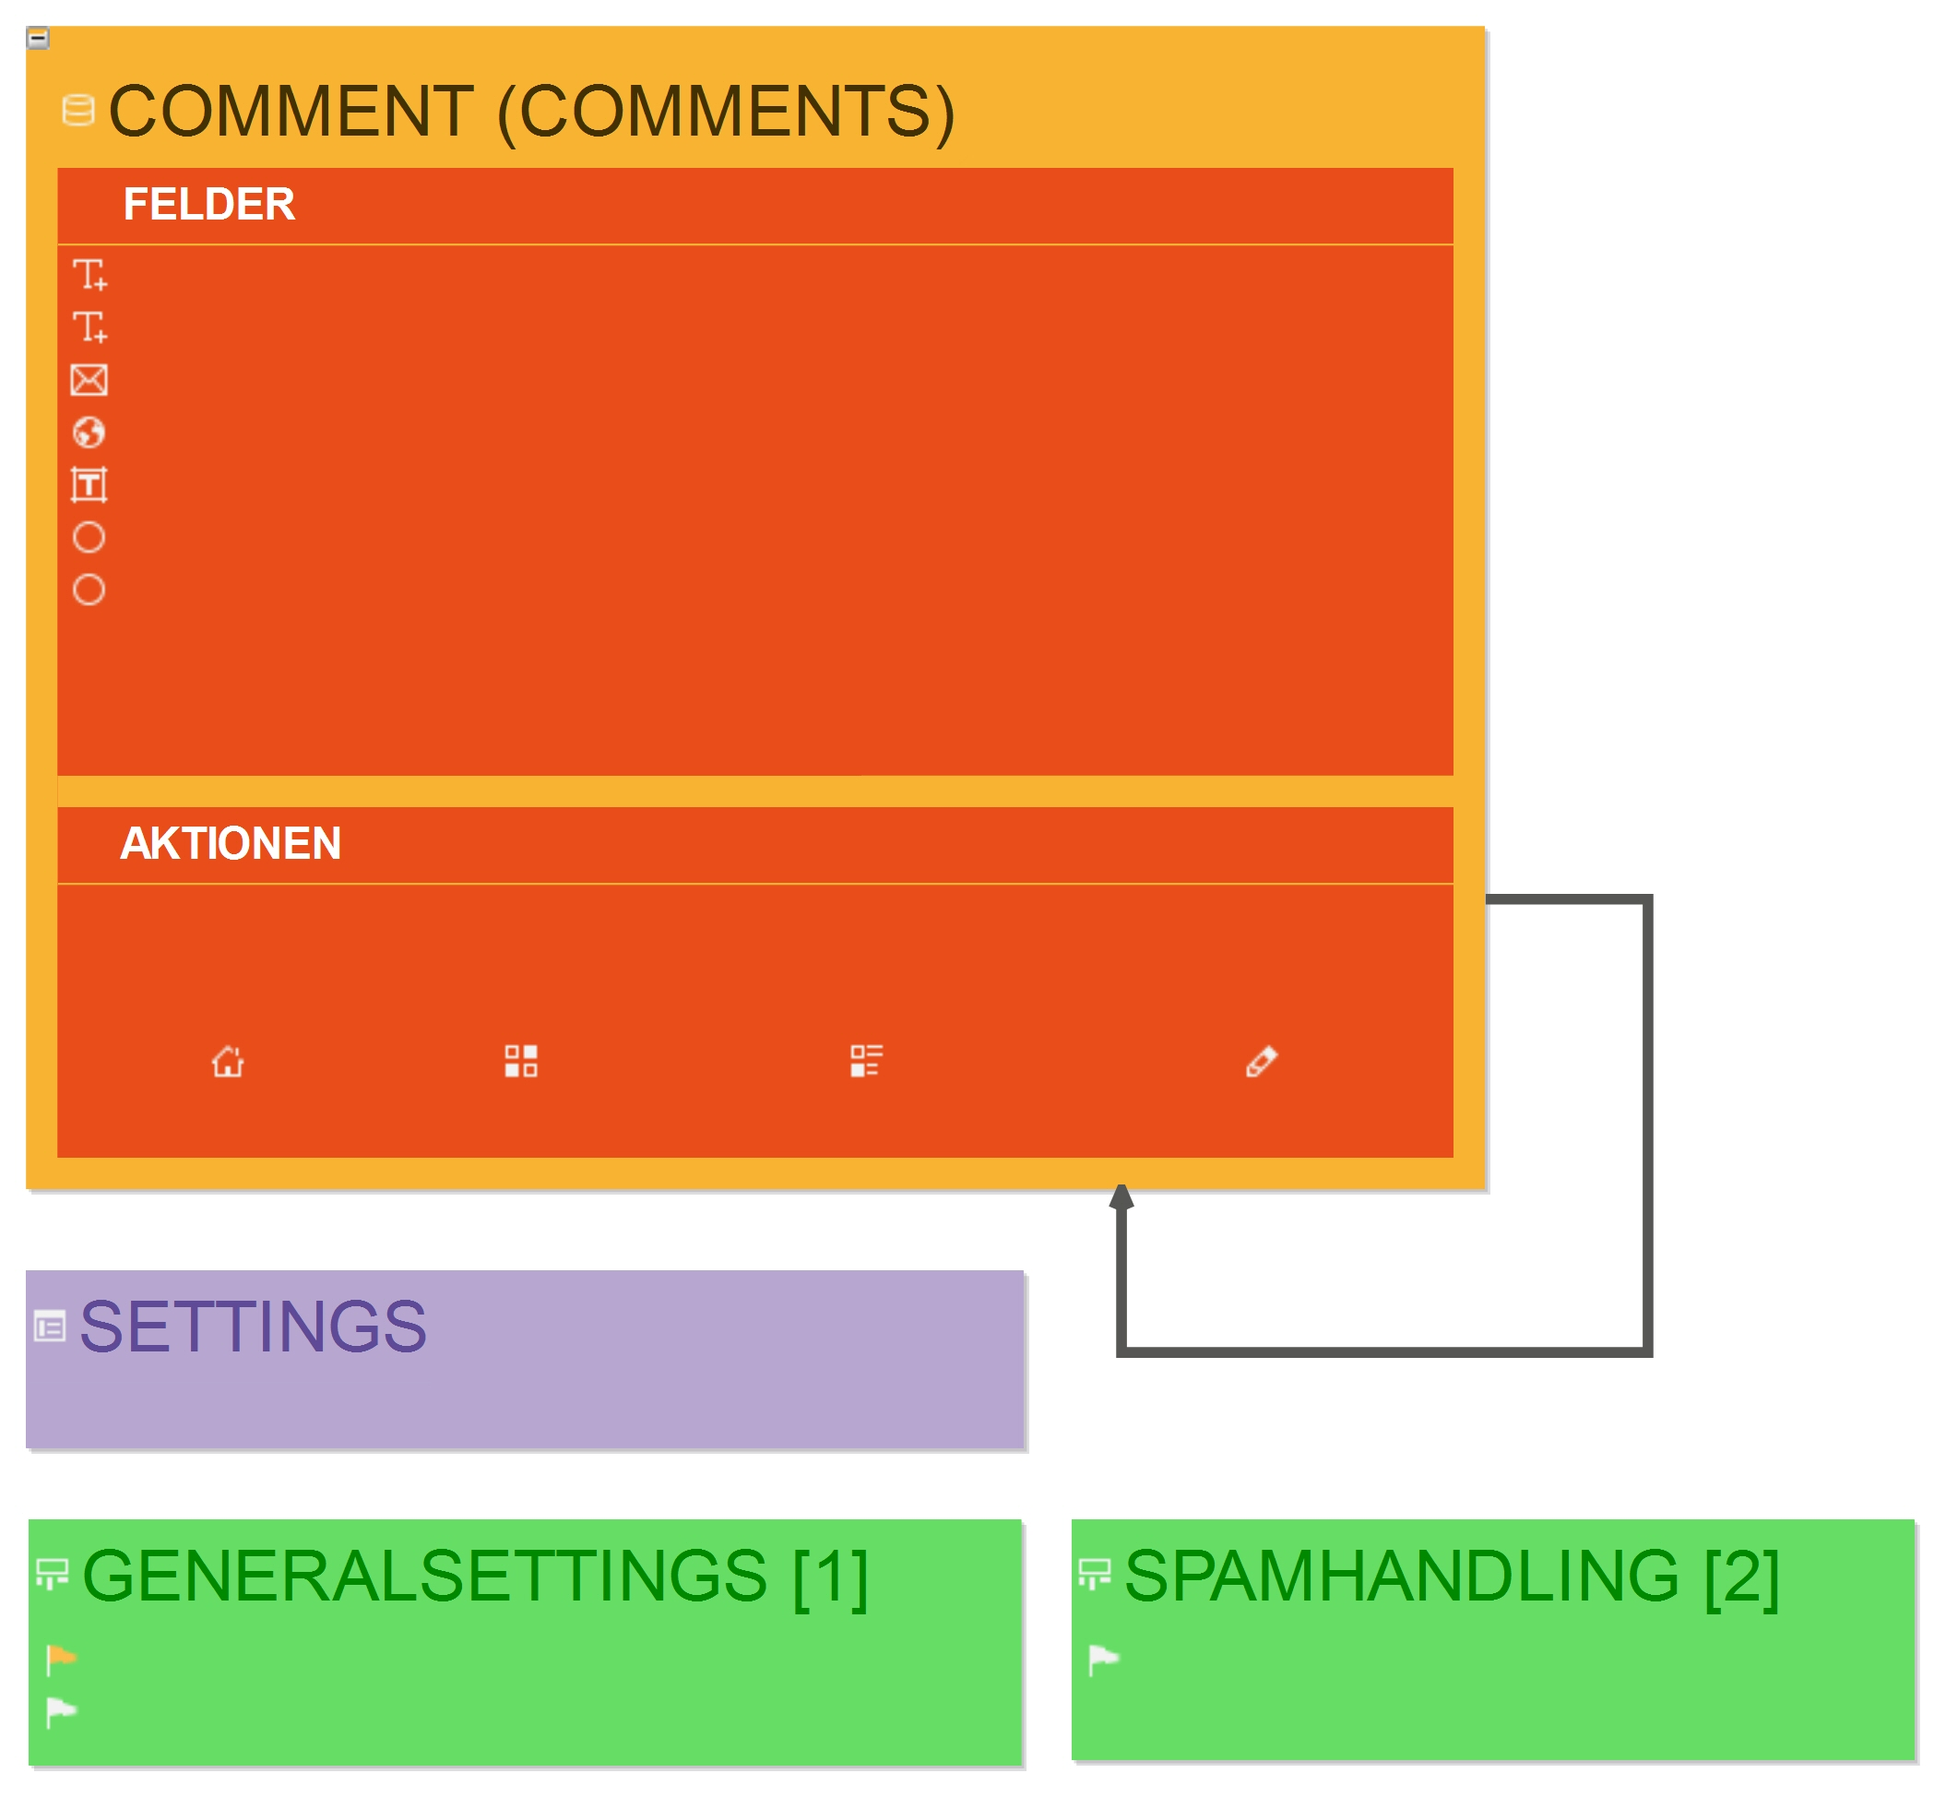
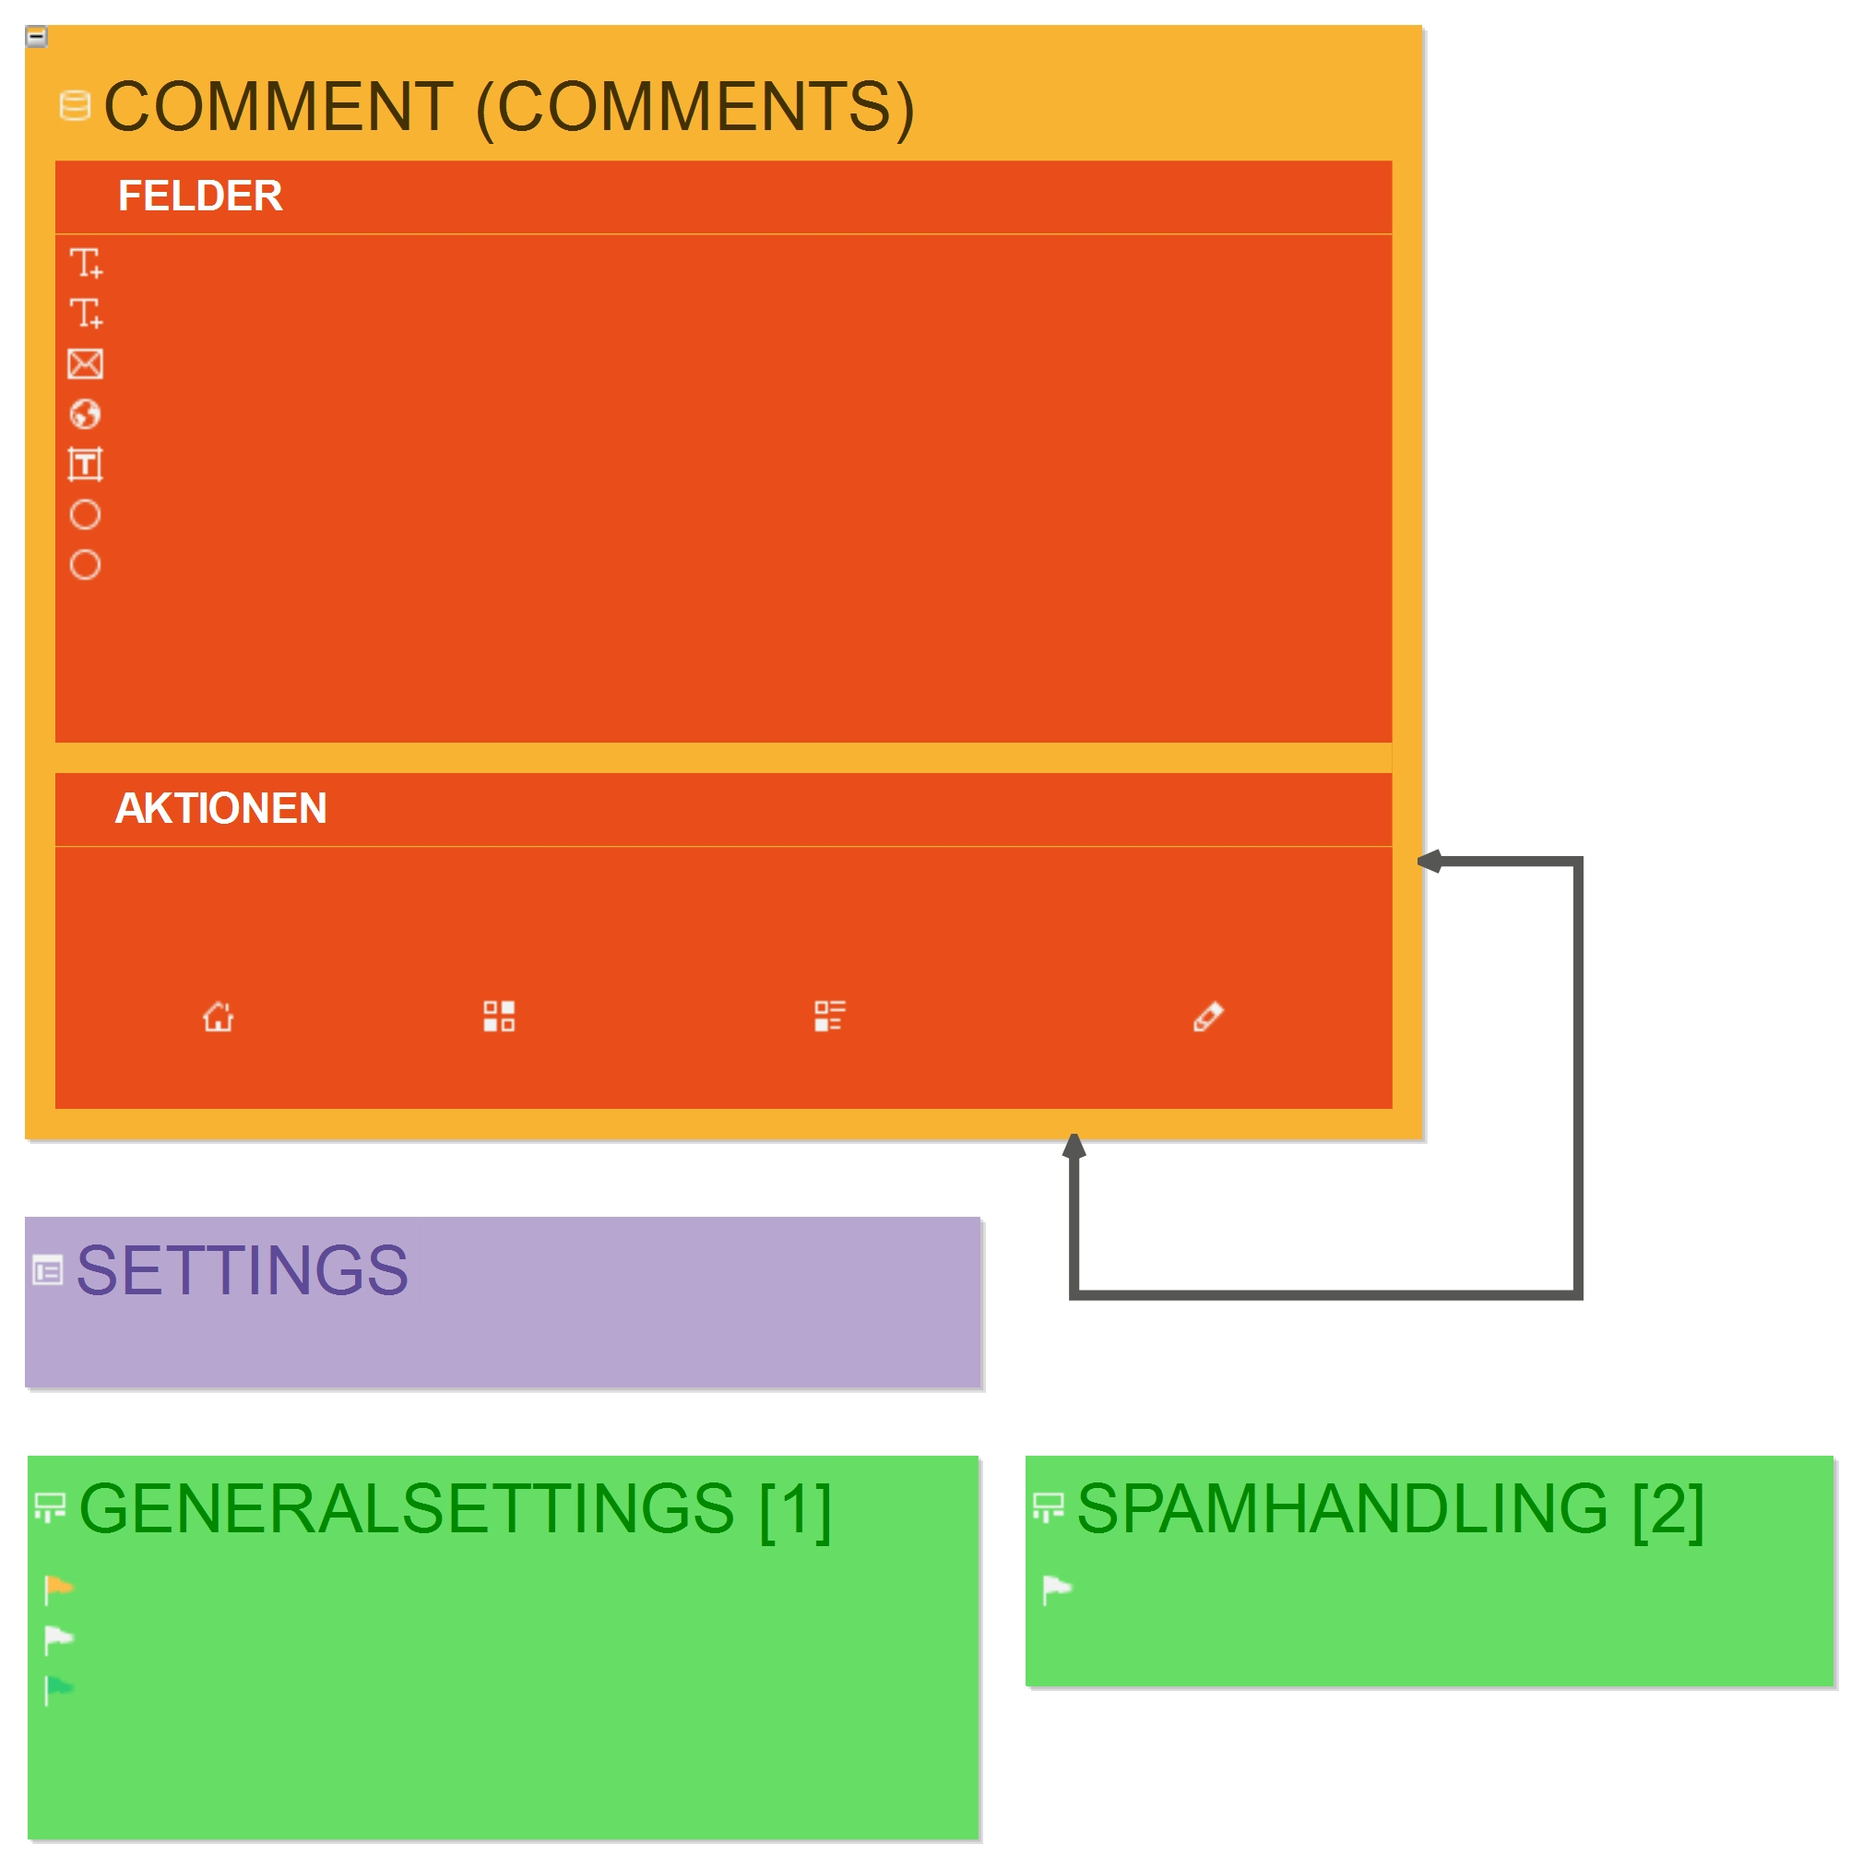
new mod var and bidirectional relation

diff --git a/MU/CommentsModule/Form/Type/QuickNavigation/Base/AbstractCommentQuickNavType.php b/MU/CommentsModule/Form/Type/QuickNavigation/Base/AbstractCommentQuickNavType.php
@@ -12,14 +12,18 @@
 
 namespace MU\CommentsModule\Form\Type\QuickNavigation\Base;
 
+use Symfony\Bridge\Doctrine\Form\Type\EntityType;
 use Symfony\Component\Form\AbstractType;
 use Symfony\Component\Form\Extension\Core\Type\ChoiceType;
 use Symfony\Component\Form\Extension\Core\Type\HiddenType;
 use Symfony\Component\Form\Extension\Core\Type\SearchType;
 use Symfony\Component\Form\Extension\Core\Type\SubmitType;
 use Symfony\Component\Form\FormBuilderInterface;
+use Symfony\Component\HttpFoundation\Request;
+use Symfony\Component\HttpFoundation\RequestStack;
 use Zikula\Common\Translator\TranslatorInterface;
 use Zikula\Common\Translator\TranslatorTrait;
+use MU\CommentsModule\Helper\EntityDisplayHelper;
 use MU\CommentsModule\Helper\ListEntriesHelper;
 
 /**
@@ -30,6 +34,16 @@ abstract class AbstractCommentQuickNavType extends AbstractType
     use TranslatorTrait;
 
     /**
+     * @var Request
+     */
+    protected $request;
+
+    /**
+     * @var EntityDisplayHelper
+     */
+    protected $entityDisplayHelper;
+
+    /**
      * @var ListEntriesHelper
      */
     protected $listHelper;
@@ -38,13 +52,19 @@ abstract class AbstractCommentQuickNavType extends AbstractType
      * CommentQuickNavType constructor.
      *
      * @param TranslatorInterface $translator   Translator service instance
+    * @param RequestStack        $requestStack RequestStack service instance
+    * @param EntityDisplayHelper $entityDisplayHelper EntityDisplayHelper service instance
      * @param ListEntriesHelper   $listHelper   ListEntriesHelper service instance
      */
     public function __construct(
         TranslatorInterface $translator,
+        RequestStack $requestStack,
+        EntityDisplayHelper $entityDisplayHelper,
         ListEntriesHelper $listHelper
     ) {
         $this->setTranslator($translator);
+        $this->request = $requestStack->getCurrentRequest();
+        $this->entityDisplayHelper = $entityDisplayHelper;
         $this->listHelper = $listHelper;
     }
 
@@ -70,6 +90,7 @@ abstract class AbstractCommentQuickNavType extends AbstractType
             ->add('tpl', HiddenType::class)
         ;
 
+        $this->addIncomingRelationshipFields($builder, $options);
         $this->addListFields($builder, $options);
         $this->addSearchField($builder, $options);
         $this->addSortingFields($builder, $options);
@@ -80,6 +101,42 @@ abstract class AbstractCommentQuickNavType extends AbstractType
                 'class' => 'btn btn-default btn-sm'
             ]
         ]);
+    }
+
+    /**
+     * Adds fields for incoming relationships.
+     *
+     * @param FormBuilderInterface $builder The form builder
+     * @param array                $options The options
+     */
+    public function addIncomingRelationshipFields(FormBuilderInterface $builder, array $options)
+    {
+        $mainSearchTerm = '';
+        if ($this->request->query->has('q')) {
+            // remove current search argument from request to avoid filtering related items
+            $mainSearchTerm = $this->request->query->get('q');
+            $this->request->query->remove('q');
+        }
+    
+        $entityDisplayHelper = $this->entityDisplayHelper;
+        $choiceLabelClosure = function ($entity) use ($entityDisplayHelper) {
+            return $entityDisplayHelper->getFormattedTitle($entity);
+        };
+        $builder->add('comment', EntityType::class, [
+            'class' => 'MUCommentsModule:CommentEntity',
+            'choice_label' => $choiceLabelClosure,
+            'placeholder' => $this->__('All'),
+            'required' => false,
+            'label' => $this->__('Comment'),
+            'attr' => [
+                'class' => 'input-sm'
+            ]
+        ]);
+    
+        if ($mainSearchTerm != '') {
+            // readd current search argument
+            $this->request->query->set('q', $mainSearchTerm);
+        }
     }
 
     /**

diff --git a/MU/CommentsModule/Entity/Base/AbstractCommentEntity.php b/MU/CommentsModule/Entity/Base/AbstractCommentEntity.php
@@ -116,9 +116,22 @@ abstract class AbstractCommentEntity extends EntityAccess
     
     
     /**
-     * Unidirectional - One comment [comment] has many comments [comments] (INVERSE SIDE).
+     * Bidirectional - Many comments [comments] are linked by one comment [comment] (OWNING SIDE).
      *
-     * @ORM\ManyToMany(targetEntity="MU\CommentsModule\Entity\CommentEntity")
+     * @ORM\ManyToOne(targetEntity="MU\CommentsModule\Entity\CommentEntity", inversedBy="comments")
+     * @ORM\JoinTable(name="mu_comments_comment",
+     *      joinColumns={@ORM\JoinColumn(name="parentid", referencedColumnName="id" )},
+     *      inverseJoinColumns={@ORM\JoinColumn(name="id", referencedColumnName="id" )}
+     * )
+     * @Assert\Type(type="MU\CommentsModule\Entity\CommentEntity")
+     * @var \MU\CommentsModule\Entity\CommentEntity $comment
+     */
+    protected $comment;
+    
+    /**
+     * Bidirectional - One comment [comment] has many comments [comments] (INVERSE SIDE).
+     *
+     * @ORM\OneToMany(targetEntity="MU\CommentsModule\Entity\CommentEntity", mappedBy="comment")
      * @ORM\JoinTable(name="mu_comments_commentcomments",
      *      joinColumns={@ORM\JoinColumn(name="id", referencedColumnName="id" )},
      *      inverseJoinColumns={@ORM\JoinColumn(name="parentid", referencedColumnName="id" )}
@@ -383,6 +396,28 @@ abstract class AbstractCommentEntity extends EntityAccess
     
     
     /**
+     * Returns the comment.
+     *
+     * @return \MU\CommentsModule\Entity\CommentEntity
+     */
+    public function getComment()
+    {
+        return $this->comment;
+    }
+    
+    /**
+     * Sets the comment.
+     *
+     * @param \MU\CommentsModule\Entity\CommentEntity $comment
+     *
+     * @return void
+     */
+    public function setComment($comment = null)
+    {
+        $this->comment = $comment;
+    }
+    
+    /**
      * Returns the comments.
      *
      * @return \MU\CommentsModule\Entity\CommentEntity[]
@@ -419,6 +454,7 @@ abstract class AbstractCommentEntity extends EntityAccess
     public function addComments(\MU\CommentsModule\Entity\CommentEntity $comment)
     {
         $this->comments->add($comment);
+        $comment->setComment($this);
     }
     
     /**
@@ -431,6 +467,7 @@ abstract class AbstractCommentEntity extends EntityAccess
     public function removeComments(\MU\CommentsModule\Entity\CommentEntity $comment)
     {
         $this->comments->removeElement($comment);
+        $comment->setComment(null);
     }
     
     

diff --git a/MU/CommentsModule/Form/Type/Base/AbstractCommentType.php b/MU/CommentsModule/Form/Type/Base/AbstractCommentType.php
@@ -12,6 +12,7 @@
 
 namespace MU\CommentsModule\Form\Type\Base;
 
+use Doctrine\ORM\EntityRepository;
 use Symfony\Component\Form\AbstractType;
 use Symfony\Component\Form\Extension\Core\Type\CheckboxType;
 use Symfony\Component\Form\Extension\Core\Type\ChoiceType;
@@ -100,6 +101,7 @@ abstract class AbstractCommentType extends AbstractType
     public function buildForm(FormBuilderInterface $builder, array $options)
     {
         $this->addEntityFields($builder, $options);
+        $this->addIncomingRelationshipFields($builder, $options);
         $this->addAdditionalNotificationRemarksField($builder, $options);
         $this->addModerationFields($builder, $options);
         $this->addReturnControlField($builder, $options);
@@ -193,6 +195,37 @@ abstract class AbstractCommentType extends AbstractType
             ],
             'required' => false,
             'scale' => 0
+        ]);
+    }
+
+    /**
+     * Adds fields for incoming relationships.
+     *
+     * @param FormBuilderInterface $builder The form builder
+     * @param array                $options The options
+     */
+    public function addIncomingRelationshipFields(FormBuilderInterface $builder, array $options)
+    {
+        $queryBuilder = function(EntityRepository $er) {
+            // select without joins
+            return $er->getListQueryBuilder('', '', false);
+        };
+        $entityDisplayHelper = $this->entityDisplayHelper;
+        $choiceLabelClosure = function ($entity) use ($entityDisplayHelper) {
+            return $entityDisplayHelper->getFormattedTitle($entity);
+        };
+        $builder->add('comment', 'Symfony\Bridge\Doctrine\Form\Type\EntityType', [
+            'class' => 'MUCommentsModule:CommentEntity',
+            'choice_label' => $choiceLabelClosure,
+            'multiple' => false,
+            'expanded' => false,
+            'query_builder' => $queryBuilder,
+            'placeholder' => $this->__('Please choose an option'),
+            'required' => false,
+            'label' => $this->__('Comment'),
+            'attr' => [
+                'title' => $this->__('Choose the comment')
+            ]
         ]);
     }
 

diff --git a/MU/CommentsModule/Form/Type/Base/AbstractConfigType.php b/MU/CommentsModule/Form/Type/Base/AbstractConfigType.php
@@ -136,6 +136,21 @@ abstract class AbstractConfigType extends AbstractType
                 'choices_as_values' => true,
                 'multiple' => false
             ])
+            ->add('levelsOfComments', IntegerType::class, [
+                'label' => $this->__('Levels of comments') . ':',
+                'label_attr' => [
+                    'class' => 'tooltips',
+                    'title' => $this->__('Maximum of level is 5.')
+                ],
+                'help' => $this->__('Maximum of level is 5.'),
+                'required' => false,
+                'data' => isset($this->moduleVars['levelsOfComments']) ? intval($this->moduleVars['levelsOfComments']) : intval(2),
+                'empty_data' => intval('2'),
+                'attr' => [
+                    'maxlength' => 255,
+                    'title' => $this->__('Enter the levels of comments.') . ' ' . $this->__('Only digits are allowed.')
+                ],'scale' => 0
+            ])
         ;
     }
 

diff --git a/MU/CommentsModule/Form/Handler/Comment/Base/AbstractEditHandler.php b/MU/CommentsModule/Form/Handler/Comment/Base/AbstractEditHandler.php
@@ -66,6 +66,28 @@ abstract class AbstractEditHandler extends EditHandler
     }
     
     /**
+     * Initialises relationship presets.
+     */
+    protected function initRelationPresets()
+    {
+        $entity = $this->entityRef;
+    
+        
+        // assign identifiers of predefined incoming relationships
+        // editable relation, we store the id and assign it now to show it in UI
+        $this->relationPresets['comment'] = $this->request->get('comment', '');
+        if (!empty($this->relationPresets['comment'])) {
+            $relObj = $this->entityFactory->getRepository('comment')->selectById($this->relationPresets['comment']);
+            if (null !== $relObj) {
+                $relObj->addComments($entity);
+            }
+        }
+    
+        // save entity reference for later reuse
+        $this->entityRef = $entity;
+    }
+    
+    /**
      * Creates the form type.
      */
     protected function createForm()

diff --git a/MU/CommentsModule/Entity/Repository/Base/AbstractCommentRepository.php b/MU/CommentsModule/Entity/Repository/Base/AbstractCommentRepository.php
@@ -651,7 +651,7 @@ abstract class AbstractCommentRepository extends EntityRepository
      */
     protected function addJoinsToSelection()
     {
-        $selection = ', tblComments';
+        $selection = ', tblComment, tblComments';
     
         return $selection;
     }
@@ -665,6 +665,7 @@ abstract class AbstractCommentRepository extends EntityRepository
      */
     protected function addJoinsToFrom(QueryBuilder $qb)
     {
+        $qb->leftJoin('tbl.comment', 'tblComment');
         $qb->leftJoin('tbl.comments', 'tblComments');
     
         return $qb;

diff --git a/MU/CommentsModule/Base/AbstractCommentsModuleInstaller.php b/MU/CommentsModule/Base/AbstractCommentsModuleInstaller.php
@@ -45,6 +45,7 @@ abstract class AbstractCommentsModuleInstaller extends AbstractExtensionInstalle
         // set up all our vars with initial values
         $this->setVar('logIp', false);
         $this->setVar('orderComments', '');
+        $this->setVar('levelsOfComments', '2');
         $this->setVar('spamProtector', '');
         $this->setVar('moderationGroupForComments', '2');
         $this->setVar('commentEntriesPerPage', '10');

diff --git a/MU/CommentsModule/Helper/Base/AbstractCollectionFilterHelper.php b/MU/CommentsModule/Helper/Base/AbstractCollectionFilterHelper.php
@@ -128,6 +128,7 @@ abstract class AbstractCollectionFilterHelper
             return $parameters;
         }
     
+        $parameters['comment'] = $this->request->query->get('comment', 0);
         $parameters['workflowState'] = $this->request->query->get('workflowState', '');
         $parameters['q'] = $this->request->query->get('q', '');
     

diff --git a/MU/CommentsModule/Controller/Base/AbstractCommentController.php b/MU/CommentsModule/Controller/Base/AbstractCommentController.php
@@ -150,6 +150,7 @@ abstract class AbstractCommentController extends AbstractController
             new Column('text'),
             new Column('parentid'),
             new Column('mainId'),
+            new Column('comment'),
             new Column('createdBy'),
             new Column('createdDate'),
             new Column('updatedBy'),
